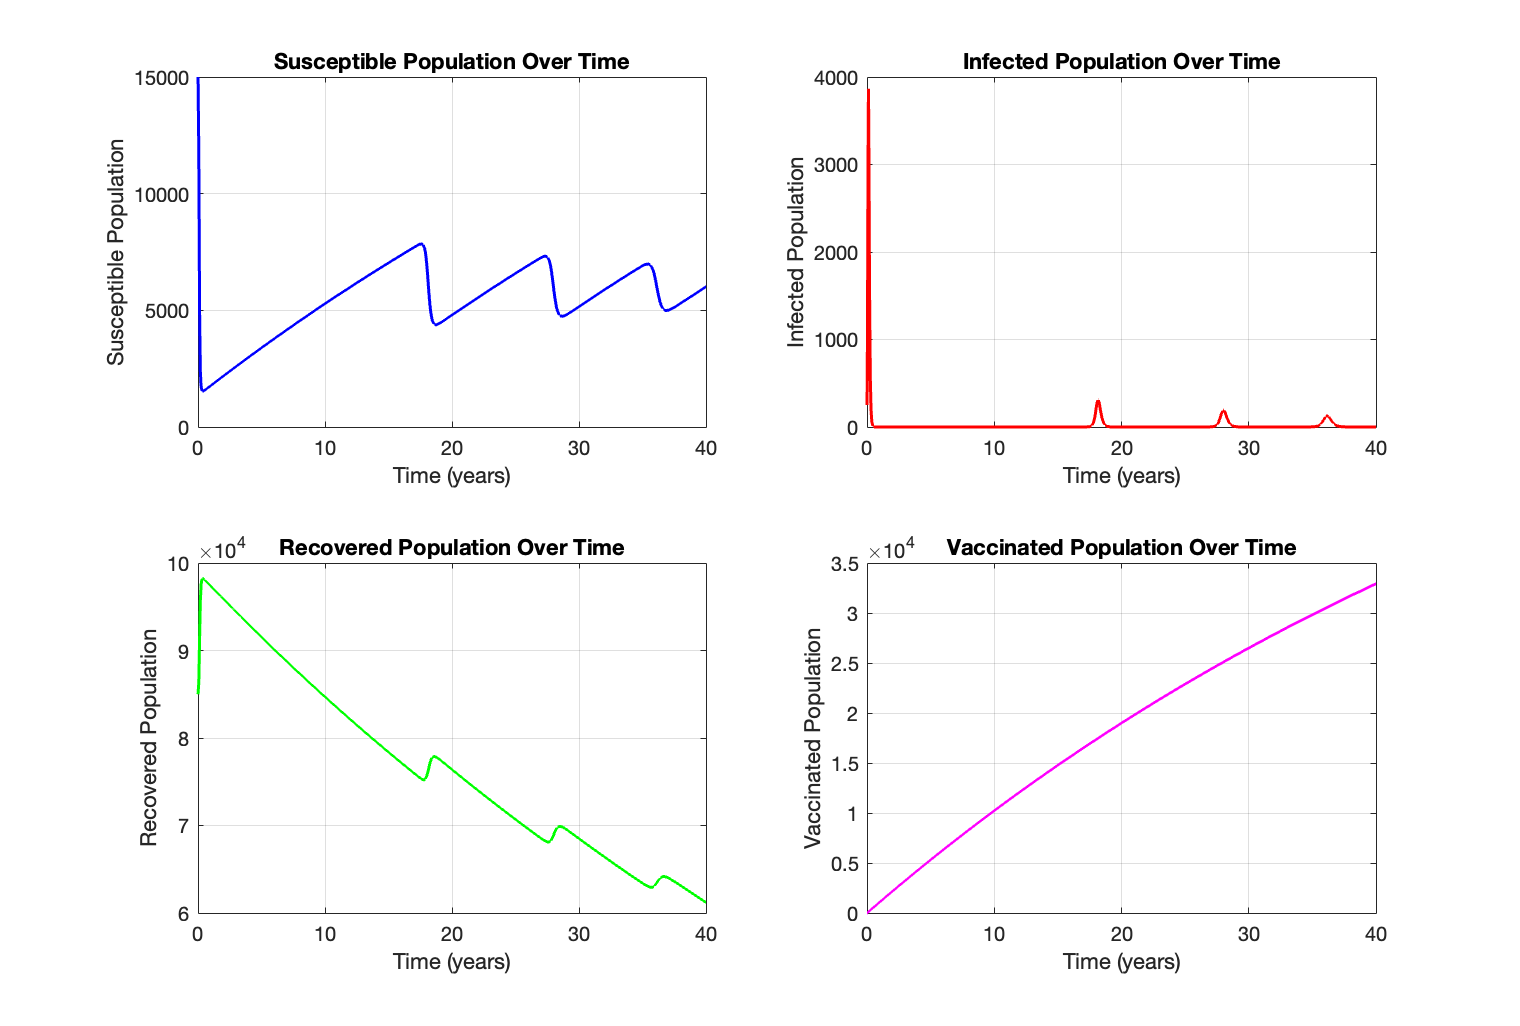
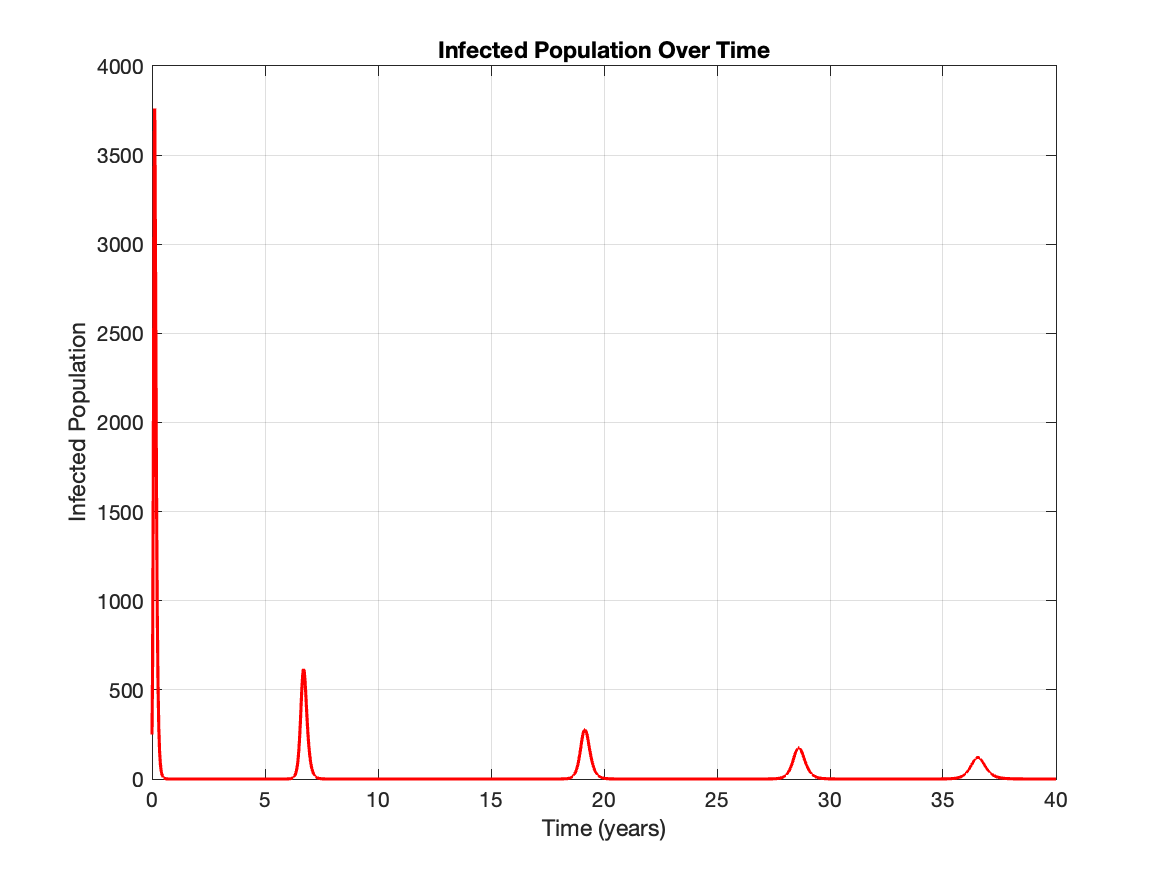
finished matlab for q4

diff --git a/Assignment 1/Problem4.m b/Assignment 1/Problem4.m
@@ -41,6 +41,7 @@ plot(t, S, 'b', 'LineWidth', 1.5);
 xlabel('Time (years)');
 ylabel('Susceptible Population');
 title('Susceptible Population Over Time');
+xticks(0:5:max(t));
 grid on;
 
 % Plot I(t) - Infected Population
@@ -49,6 +50,7 @@ plot(t, I, 'r', 'LineWidth', 1.5);
 xlabel('Time (years)');
 ylabel('Infected Population');
 title('Infected Population Over Time');
+xticks(0:5:max(t));
 grid on;
 
 % Plot R(t) - Recovered Population
@@ -57,6 +59,7 @@ plot(t, R, 'g', 'LineWidth', 1.5);
 xlabel('Time (years)');
 ylabel('Recovered Population');
 title('Recovered Population Over Time');
+xticks(0:5:max(t));
 grid on;
 
 % Plot V(t) - Vaccinated Population
@@ -65,6 +68,7 @@ plot(t, V, 'm', 'LineWidth', 1.5);
 xlabel('Time (years)');
 ylabel('Vaccinated Population');
 title('Vaccinated Population Over Time');
+xticks(0:5:max(t));
 grid on;
 % saveas(gcf, 'Figures/figure41.png'); Doesn't look good, need to resize
 % myself
@@ -95,14 +99,6 @@ sirv_vaccine_odes = @(t, y) [
     (t >= 5) * epsilon * p * mu * N - mu * y(4)                                 % dV/dt, V(t) = y(4)
 ];
 
-% Define the ODE system with vaccine rollout
-% sirv_vaccine_odes = @(t, y) [
-%     (1 - (t >= 5) * epsilon * p) * mu * N - beta * y(1) * y(2) - mu * y(1);     % dS/dt, S(t) = y(1)
-%     beta * y(1) * y(2) - gamma * y(2) - mu * y(2);                              % dI/dt, I(t) = y(2)
-%     gamma * y(2) - mu * y(3);                                                   % dR/dt, R(t) = y(3)
-%     (t >= 5) * epsilon * p * mu * N - mu * y(4)                                 % dV/dt, V(t) = y(4)
-% ];
-
 % Initial state vector
 initial_conditions = [S0; I0; R0; V0];
 
@@ -115,40 +111,15 @@ I = y(:, 2);
 R = y(:, 3);
 V = y(:, 4);
 
-% Plot S(t) - Susceptible Population
-figure;
-subplot(2, 2, 1);
-plot(t, S, 'b', 'LineWidth', 1.5);
-xlabel('Time (years)');
-ylabel('Susceptible Population');
-title('Susceptible Population Over Time');
-grid on;
-
 % Plot I(t) - Infected Population
-subplot(2, 2, 2);
+figure;
 plot(t, I, 'r', 'LineWidth', 1.5);
 xlabel('Time (years)');
 ylabel('Infected Population');
 title('Infected Population Over Time');
+xticks(0:5:max(t));
 grid on;
-
-% Plot R(t) - Recovered Population
-subplot(2, 2, 3);
-plot(t, R, 'g', 'LineWidth', 1.5);
-xlabel('Time (years)');
-ylabel('Recovered Population');
-title('Recovered Population Over Time');
-grid on;
-
-% Plot V(t) - Vaccinated Population
-subplot(2, 2, 4);
-plot(t, V, 'm', 'LineWidth', 1.5);
-xlabel('Time (years)');
-ylabel('Vaccinated Population');
-title('Vaccinated Population Over Time');
-grid on;
-% saveas(gcf, 'Figures/figure42.png'); Doesn't look good, need to resize
-% myself
+saveas(gcf, 'Figures/figure42.png');
 
 %% 4.3
 % Parameters
@@ -197,5 +168,6 @@ plot(t, I, 'r', 'LineWidth', 1.5);
 xlabel('Time (years)');
 ylabel('Infected Population');
 title('Infected Population Over Time (Eradication Scenario)');
+xticks(0:5:max(t));
 grid on;
 saveas(gcf, 'Figures/figure43.png');
